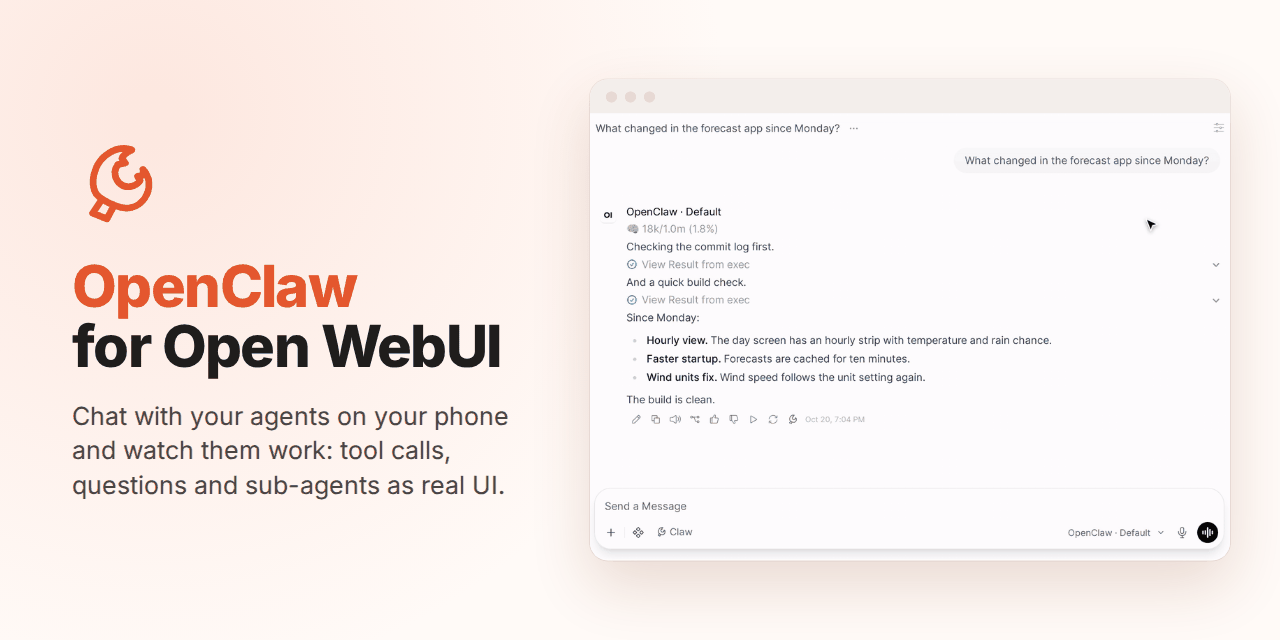
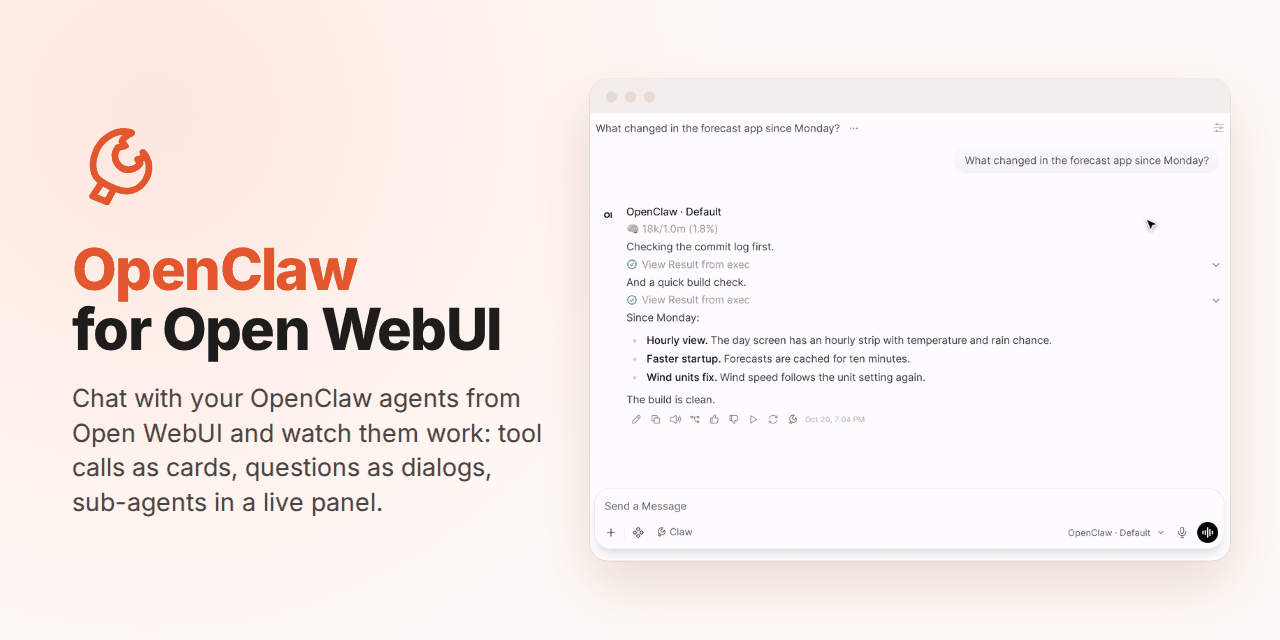
One tagline everywhere: tool calls as cards, questions as dialogs, sub-agents in a live panel
The repo's About text, now also in the README intro, the docs home page
hero and site description, llms.txt and the social preview.

Changed region(s): [[0.0312, 0.375, 0.4375, 0.8125], [0.0625, 0.1875, 0.125, 0.3438]]

diff --git a/scripts/social_preview.py b/scripts/social_preview.py
@@ -28,7 +28,7 @@ LOGO = os.path.join(ROOT, "docs", "public", "logo.svg")
 OUT = os.path.join(ROOT, "docs", "img", "social-preview.png")
 FRAME_FROM_END = 8   # the reply is finished and the cursor has settled
 SIDEBAR = 44         # Open WebUI's icon rail, left of the chat
-TAGLINE = "Chat with your agents on your phone and watch them work: tool calls, questions and sub-agents as real UI."
+TAGLINE = "Chat with your OpenClaw agents from Open WebUI and watch them work: tool calls as cards, questions as dialogs, sub-agents in a live panel."
 
 PAGE = """<!doctype html><html><head><meta charset="utf-8">
 <link href="https://fonts.googleapis.com/css2?family=Inter:wght@400;800&display=swap" rel="stylesheet">

diff --git a/README.md b/README.md
@@ -8,8 +8,7 @@
   <img src="./docs/img/demos/hero.gif" alt="A question typed in Open WebUI and sent; the agent's reply streams in, with a tool card for each command it runs, then a short summary" width="800">
 </p>
 
-Chat with your [OpenClaw](https://github.com/openclaw/openclaw) agents from Open WebUI, on your phone, and watch them work.
-Tool calls, questions and sub-agents show up as real UI, not text.
+Chat with your [OpenClaw](https://github.com/openclaw/openclaw) agents from Open WebUI and watch them work: tool calls as cards, questions as dialogs, sub-agents in a live panel.
 It connects to your running Gateway over its native protocol; it is not an agent itself.
 
 ## Install in 30 seconds
